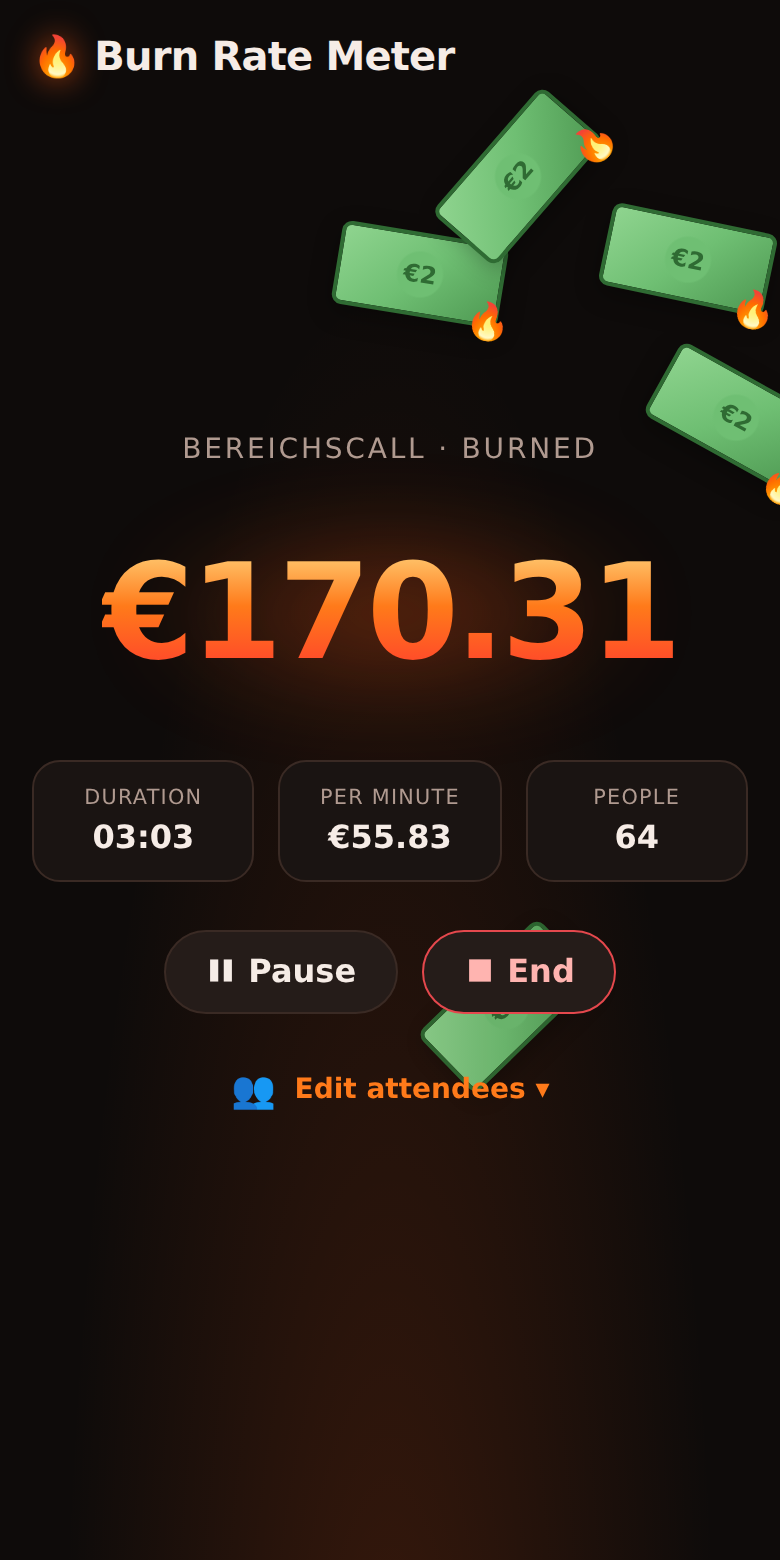
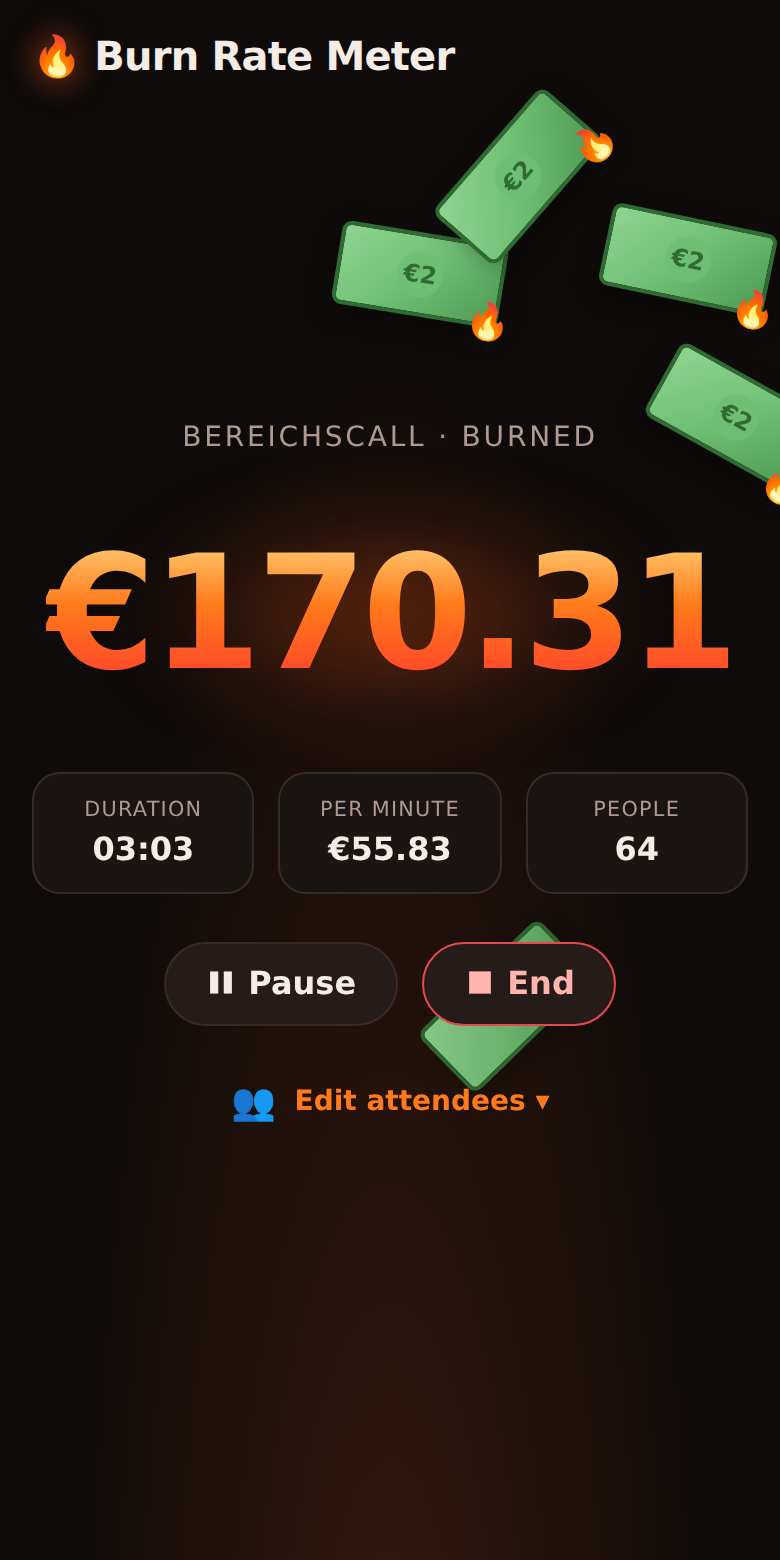
Make the meter counter larger on phones (1.1.1) (#7)
- Drop the 17vw cap: the length-based size alone keeps every amount
inside the screen
- Short and medium amounts grow from 66px to up to 92px on a 390px phone
- Regenerate the README screenshots
- Release 1.1.1

diff --git a/src/components/Meter.tsx b/src/components/Meter.tsx
@@ -25,7 +25,7 @@ import type { MeetingConfig } from './QuickStart'
  * amounts like "12.345,67 €" still fit the page width (max 760px minus gutters).
  */
 function counterFontSize(text: string): string {
-  return `min(8.5rem, 17vw, calc(${(1.55 / text.length).toFixed(4)} * min(100vw - 32px, 728px)))`
+  return `min(8.5rem, calc(${(1.55 / text.length).toFixed(4)} * min(100vw - 32px, 728px)))`
 }
 
 type MeterProps = {

diff --git a/CHANGELOG.md b/CHANGELOG.md
@@ -2,6 +2,10 @@
 
 All notable changes to this project are documented here. The project follows [Semantic Versioning](https://semver.org).
 
+## 1.1.1 – 2026-09-26
+
+- Larger meter counter on phones: short and medium amounts use up to ~40% more of the screen width
+
 ## 1.1.0 – 2026-09-26
 
 - Share the result of a meeting as an image and text (share sheet on phones, download and clipboard on desktop)
